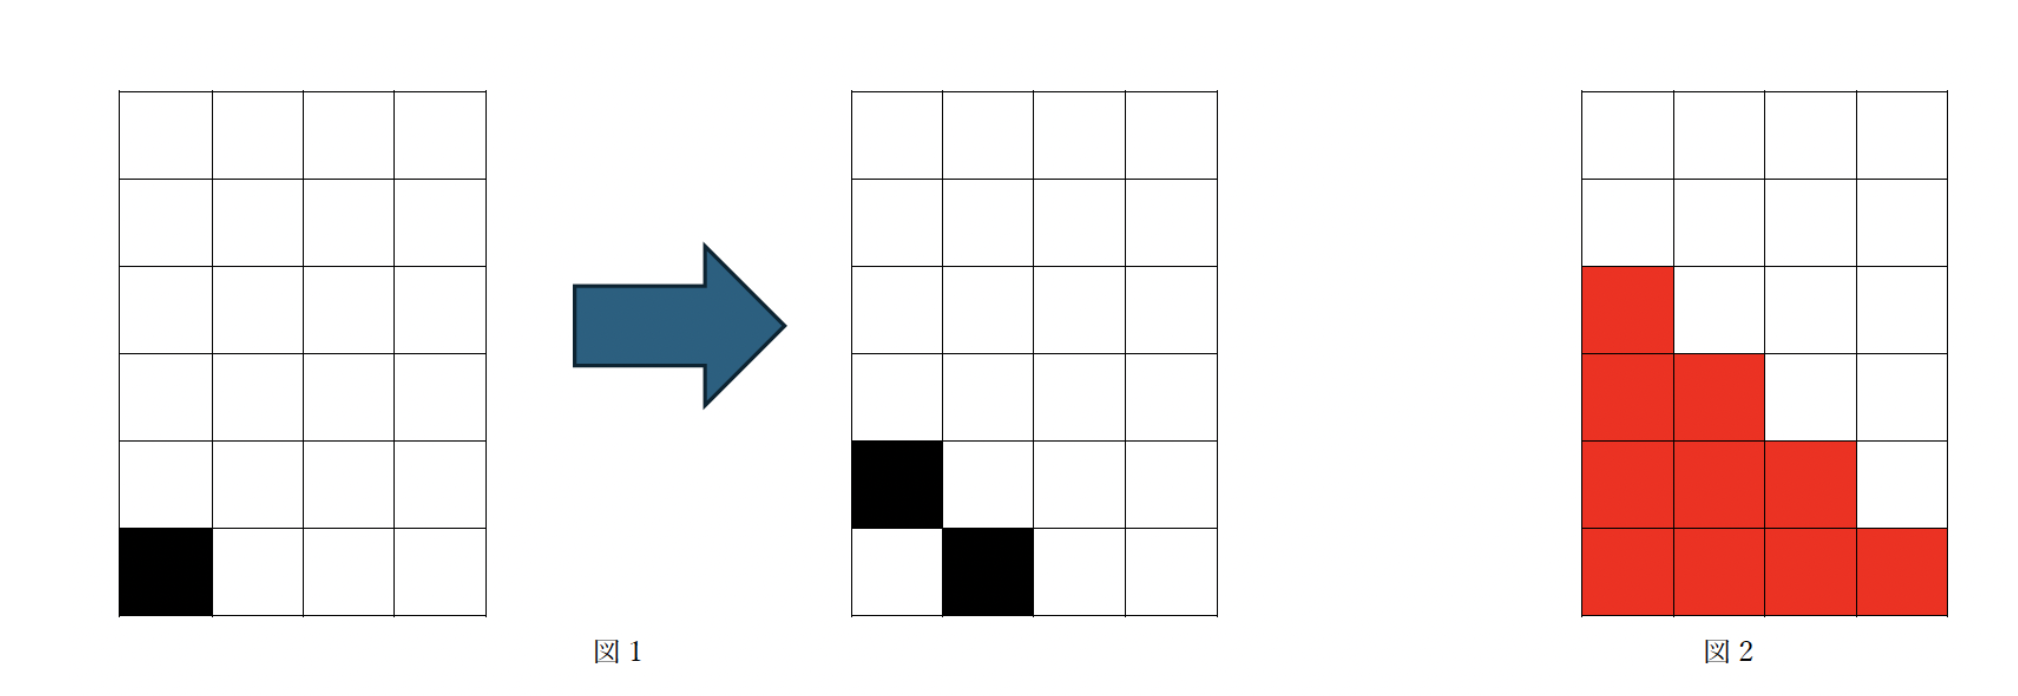
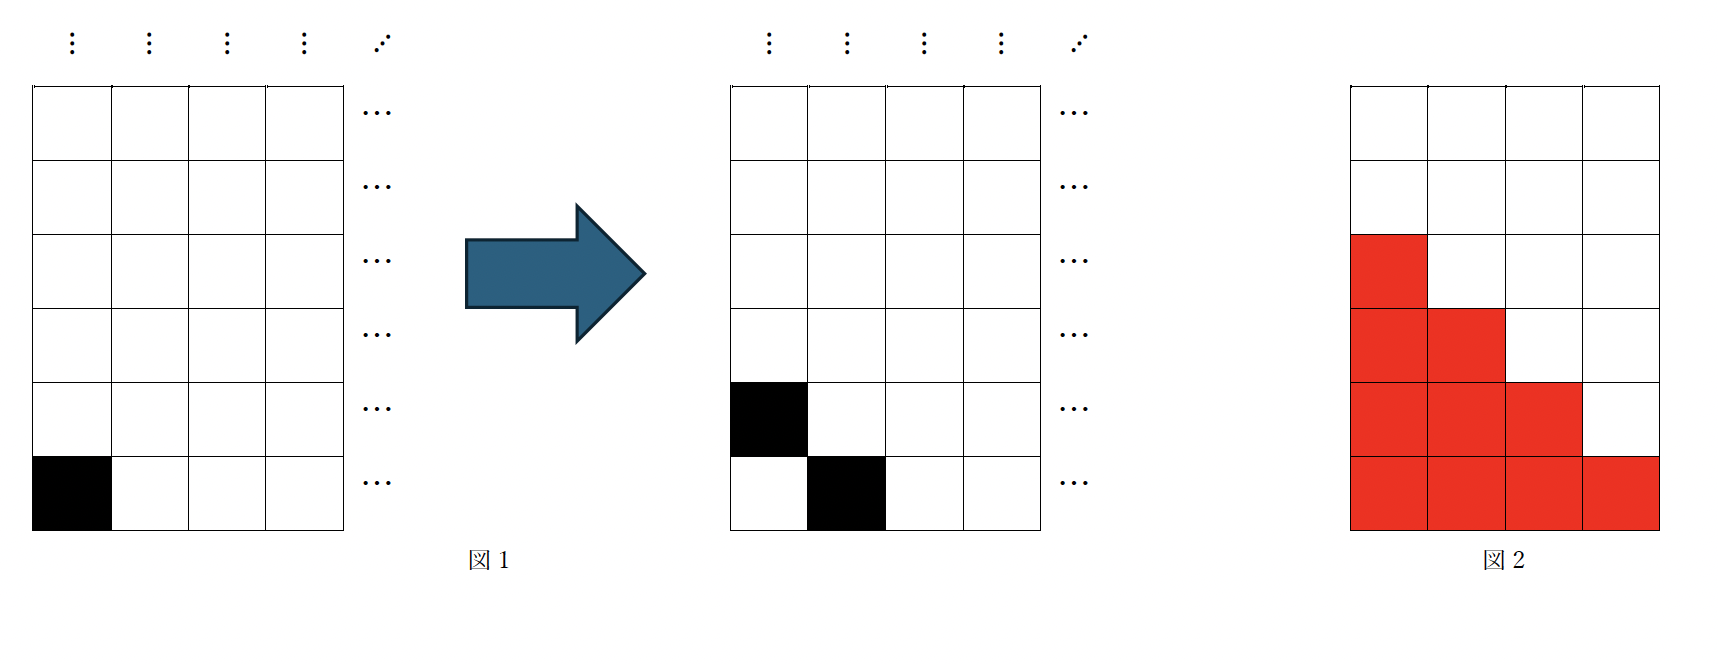
9/13

diff --git a/sub6/5_Kontsevich/index.md b/sub6/5_Kontsevich/index.md
@@ -1,10 +1,10 @@
 # Kontsevichのパズル
 
-図1(下図左側)のようにタイルが無限に並んでいて, 左下のみ黒で他は白であるものを考える.
+図1(下図左側)のように, 左下の1枚だけを黒タイルとし, その他のタイルは白で, それらの白タイルが上方向と右方向に無限に並んでいるものを考える.
 次の操作を何回やっても, 図2(下図右側)の赤色の部分に黒のタイルがあることを示せ. 
 
 [操作] 
-図1のように上も右も白であるような黒のタイルを選び, それを白タイルに変えて, その上も右も黒のタイルに変える.
+図1のように上も右も白であるような黒のタイルを選び, それを白のタイルに変えて, その上も右も黒のタイルに変える.
 
 ![](https://masataka123.github.io/blog3/picture/kont.jpg)
 
